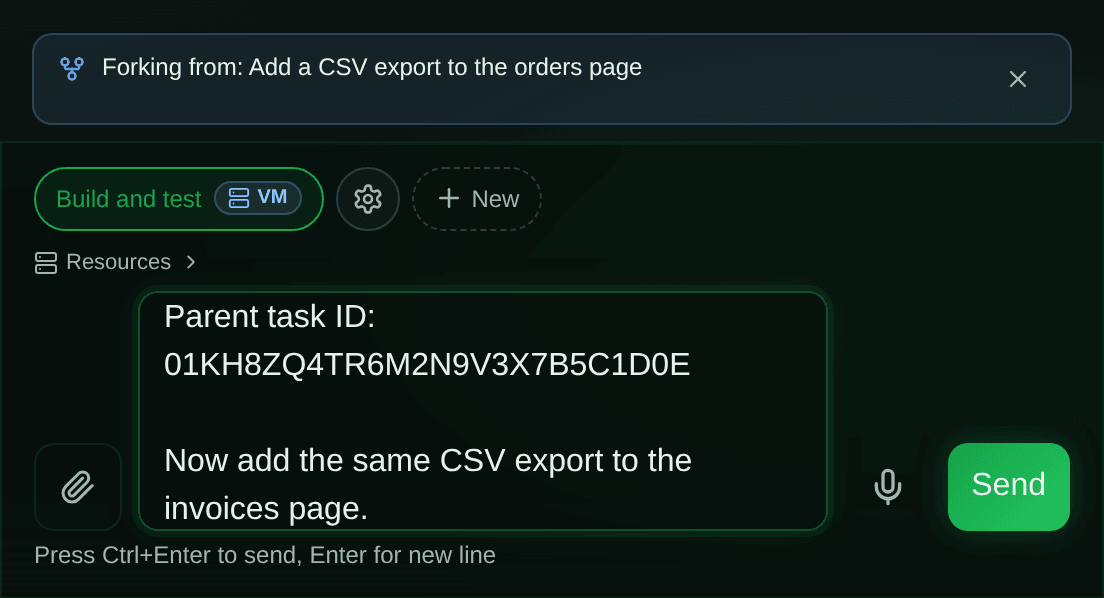
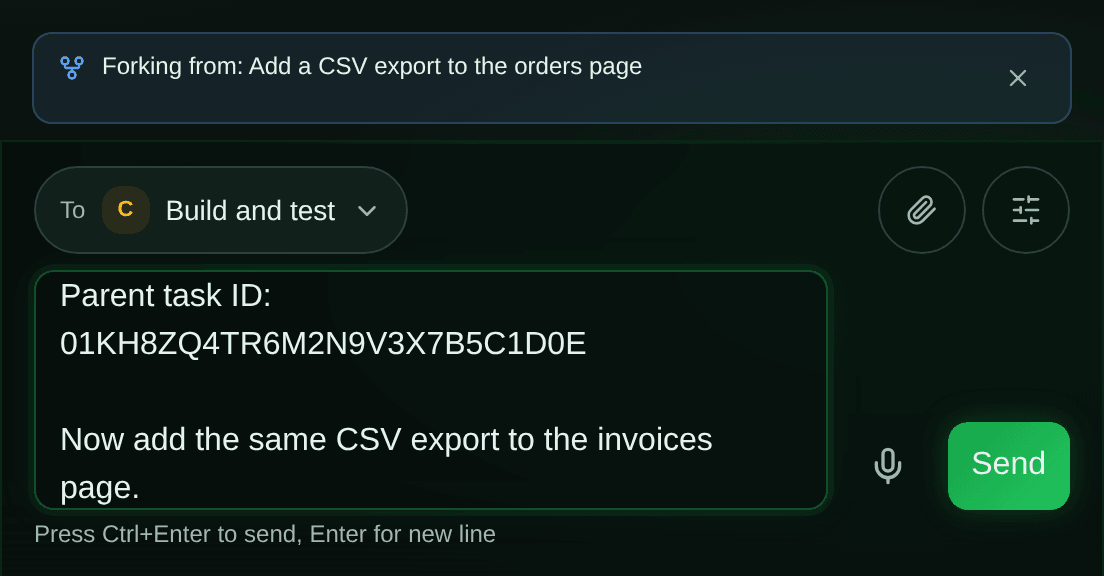
docs: regenerate fork composer images with the To control
The docs fork capture now forks from the session tool rail: on main the
expired footer shows the archived fork composer for its stopped fixture,
so the old "Fork conversation" step no longer exists there. The
expired-chat captures and wording drift is filed as a backlog task.

diff --git a/apps/web/tests/playwright/docs-screenshots-chat-states.spec.ts b/apps/web/tests/playwright/docs-screenshots-chat-states.spec.ts
@@ -294,6 +294,12 @@ async function setupMocks(page: Page, fixtures: SessionFixture[], overrides: Rou
     if (pathname === `/api/projects/${PROJECT_ID}/agent-profiles`) {
       return route.fulfill({ status: 200, json: AGENT_PROFILES });
     }
+    if (pathname === `/api/projects/${PROJECT_ID}/agent-profiles/picker`) {
+      return route.fulfill({
+        status: 200,
+        json: { usage: [], hiddenProfileIds: [], usageWindowDays: 30 },
+      });
+    }
     if (pathname in overrides) return route.fulfill({ status: 200, json: overrides[pathname] });
 
     return fulfillDocsChatRoute(route, {
@@ -464,7 +470,10 @@ function listPayload(fixtures: SessionFixture[]) {
 }
 
 async function forkExpiredChat(page: Page) {
-  await openExpiredChat(page, {
+  // Fork from the session tool rail, the guide's first path. The expired footer's own fork
+  // control now depends on the session's stored status (`SessionFooter.tsx`), which this
+  // fixture no longer matches: tasks/backlog/2026-10-21-docs-expired-chat-spec-drift.md.
+  await openChat(page, EXPIRED.id, EXPIRED_LIST, {
     [`/api/projects/${PROJECT_ID}/sessions`]: {
       sessions: listPayload(EXPIRED_LIST),
       total: EXPIRED_LIST.length,
@@ -474,7 +483,8 @@ async function forkExpiredChat(page: Page) {
       agents: [{ id: 'claude-code', name: 'Claude Code', configured: true, supportsAcp: true }],
     },
   });
-  await page.getByRole('button', { name: 'Fork conversation' }).click();
+  await expect(page.getByText(/The saved workspace has expired/)).toBeVisible();
+  await page.getByRole('button', { name: /^Fork — start a new task/ }).click();
   await expect(page.getByText(`Forking from: ${EXPIRED.topic}`)).toBeVisible();
   const composer = page
     .getByRole('combobox')

diff --git a/tasks/backlog/2026-10-21-docs-expired-chat-spec-drift.md b/tasks/backlog/2026-10-21-docs-expired-chat-spec-drift.md
@@ -1,0 +1,24 @@
+# Docs: expired-chat screenshots and wording drifted from the archived fork composer
+
+## Problem
+
+`apps/web/tests/playwright/docs-screenshots-chat-states.spec.ts` › `openExpiredChat` expects a **Fork conversation** button on the expired chat. On `main` (c0fb8edd8) its fixture session has `status: 'stopped'`, so `SessionFooter.tsx` renders `ArchivedForkComposer` instead: a "Write a prompt to fork this archived chat..." box with a **Fork** button. **Fork conversation** now only appears for an expired chat whose session is not `stopped`.
+
+Consequences:
+
+- "docs: expired chat" and "docs: expired chat on a phone" fail, so `chat-expired.png` and `chat-expired-mobile.png` cannot be regenerated.
+- The docs still describe only **Fork conversation** for expired chats:
+  - `guides/chat-features.md` (Conversation Forking, step 2)
+  - `guides/session-troubleshooting.md`
+  - `guides/instant-sessions.md`
+  - `guides/recent-product-changes.md`
+
+## Context
+
+Found on 2026-10-21 while regenerating `chat-fork-composer*.png` for the new-chat profile picker (branch `sam/new-chat-profile-picker`). That branch moved the fork-composer capture to the session tool rail's Fork, which works on `main`. It left the expired-chat captures and wording alone.
+
+## Acceptance criteria
+
+- [ ] Decide which expired-chat footer each session state should show, and confirm `SessionFooter.tsx` matches.
+- [ ] Update `openExpiredChat` to assert the footer the fixture actually gets, and regenerate `chat-expired*.png`.
+- [ ] Update the four guides so they describe the archived fork composer and, where it still applies, **Fork conversation**.
